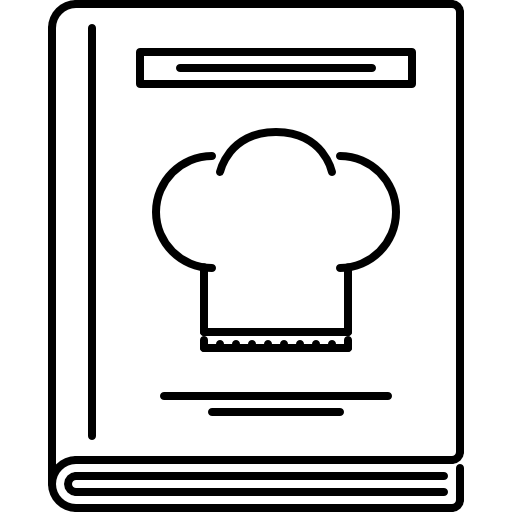
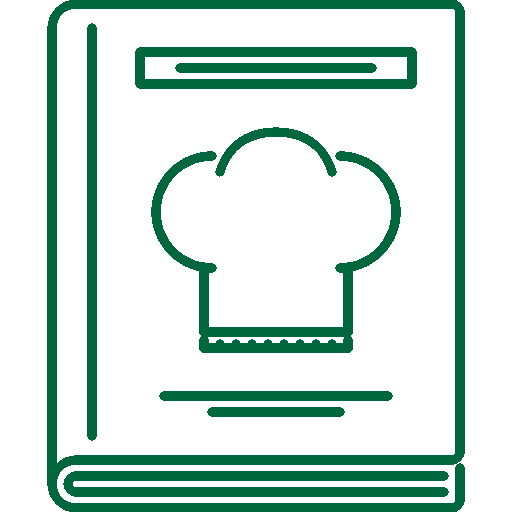
Header da TelaPrincipal

diff --git a/styles/styles.js b/styles/styles.js
@@ -17,7 +17,7 @@ export const MainScreen = styled.View`
 
 export const DivRecipeScreen = styled.View`
   
-  border: 1px solid red;
+  
 `;
 
 export const DivTopo = styled.View`
@@ -25,7 +25,6 @@ export const DivTopo = styled.View`
   width: 360px;
   height: 60px;
   margin-bottom: 2px;
-  border: 1px solid red;
   background: #FF9C33;
   border-radius: 1px;
 `
@@ -33,7 +32,6 @@ export const DivMenu = styled.View`
   width: 50px;
   height: 60px;
   position: absolute;
-  border: 2px solid red;
 `
 export const DivSearch = styled.View`
   
@@ -42,12 +40,11 @@ export const DivSearch = styled.View`
   left: 50px;
   margin-top: 5px;
   align-items: flex-end;
-  border: 1px solid green;
+
 `
 export const DivTitleScreen = styled.View`
   width: 360px;
   height: 40px;
-  border: 1px solid red;
   background: #FF9C33;
   border-radius: 1px;
 `
@@ -57,21 +54,51 @@ export const DivButtonRegister = styled.View`
   width: 180px;
   height: 100px;
   left: 180px;
-  top: 450px;
+  top: 250px;
 `
 export const DivButtonBack = styled.View`
   background-color: #FFF5EB;
   width: 180px;
   height: 100px;
   left: 180px;
-  top: 300px;
+  top: 100px;
 `
 
 export const DivButtonLogin = styled.View`
 
 width: 180px;
 height: 100px;
-top: 350px;
+top: 150px;
+`
+export const DivUserDrawer = styled.View`
+  width: 283px;
+  height: 100px;
+  /* background-color: rgba(255,255,255,0.5); */
+  border-bottom-width: 1px;
+  border-bottom-color: rgba(255,255,255,0.5);
+`
+
+export const DivUserData = styled.View`
+  width: 200px;
+  height: 60px;
+  left: 80px;
+  top: 15px;
+`
+
+export const DrawerUserNoImage = styled.Image`
+  width: 60px;
+  height: 60px;
+  bottom: 40px;
+  margin-left: 10px;
+
+`
+export const DrawerUserImage = styled.Image`
+  width: 60px;
+  height: 60px;
+  bottom: 40px;
+  margin-left: 10px;
+  border-radius: 30px;
+
 `
 
 export const Logo = styled.Image`
@@ -89,16 +116,22 @@ export const Lupa = styled.Image`
   position: absolute;
   right: 10px;
   top: 15px;
-  border: 2px solid red;
   z-index: 1px;
 `;
 
-export const LivroReceitas = styled.Image`
+export const IconTitle = styled.Image`
   position: absolute;
-  width: 25px;
-  height: 25px;
+  width: 30px;
+  height: 30px;
   left: 234px;
-  top: 10px;
+  top: 5px;
+`
+
+export const MenuImage = styled.Image`
+  height: 50px;
+  width: 30px;
+  top: 7px;
+  left: 8px;
 `
 
 export const InputText = styled.TextInput`
@@ -110,7 +143,7 @@ export const InputText = styled.TextInput`
   border-width: 1px;
   padding: 0 0 0 20px;
   margin-bottom: 10px;
-  top: 330px;
+  top: 130px;
   left: 20px;
 `
 export const InputSearch = styled.TextInput`
@@ -124,7 +157,6 @@ export const InputSearch = styled.TextInput`
   text-align: center;
   border-color: #EEE;
   border-radius: 50px;
-  border: 2px solid red;
 `
 export const TitleScreen = styled.Text`
   position: absolute;

diff --git a/App.js b/App.js
@@ -2,22 +2,75 @@ import * as React from 'react';
 import { View, Text } from 'react-native';
 import { NavigationContainer } from '@react-navigation/native';
 import { createNativeStackNavigator } from '@react-navigation/native-stack';
+import { createDrawerNavigator, DrawerContentScrollView, DrawerItemList } from '@react-navigation/drawer';
 import Login from './screens/Login'
 import Entrar from './screens/Entrar'
 import Registrar from './screens/Registrar'
 import TelaPrincipal from './screens/TelaPrincipal'
+import { 
+  InputSearchField,  
+  DivUserDrawer, DrawerUserNoImage, DrawerUserImage, DivUserData } from './styles/styles'
 
 const Stack = createNativeStackNavigator();
+const Drawer = createDrawerNavigator();
 
 export default function App() {
   return (
     <NavigationContainer>
-      <Stack.Navigator initialRouteName="Login" screenOptions={{headerShown: false}}>
+      <Stack.Navigator initialRouteName="TelaPrincipal" screenOptions={{ headerShown: false }}>
         <Stack.Screen name="Login" component={Login} />
         <Stack.Screen name="Entrar" component={Entrar} />
         <Stack.Screen name="Registrar" component={Registrar} />
-        <Stack.Screen name="TelaPrincipal" component={TelaPrincipal} />
+        <Stack.Screen name="TelaPrincipal" component={DrawerScreens} />
       </Stack.Navigator>
     </NavigationContainer>
   );
 }
+
+const CustomDrawer = (props) => {
+  return <DrawerContentScrollView {...props} style={{backgroundColor: '#FF9C33'}}>
+    <DivUserDrawer>
+      <DivUserData>
+        <Text style={{paddingTop: 10, fontSize: 18}}>Olá ~ nome usuario~</Text>
+        <Text style={{marginTop: 3}}>~email~</Text>
+      </DivUserData>
+      
+      <DrawerUserNoImage source={require('./assets/no-photo2.png')} />
+      {/* <DrawerUserImage source={require('./assets/no-photo2.png')} /> */}
+    </DivUserDrawer>
+    <DrawerItemList {...props}/>
+  </DrawerContentScrollView>
+}
+
+ function DrawerScreens() {
+   return(   
+  <Drawer.Navigator initialRouteName="Receitas" 
+    screenOptions={{
+      headerStyle:{
+        backgroundColor:'transparent',
+        borderColor: 'red',
+      },
+      headerTitle:'',
+      headerShown: false,
+    }} drawerContent={(props) => <CustomDrawer {...props}/>} >
+    <Drawer.Screen name="Receitas" component={TelaPrincipal} />
+  </Drawer.Navigator>
+   );
+}
+
+// screenOptions={{headerTintColor: "#00663D", headerStyle: {
+//   backgroundColor: "#FF9C33",
+//   borderRadius: 1,
+// }, header}}
+
+// function SearchField(){
+//   return(
+//     <InputSearchField>
+//       placeholder='Pesquisar receitas'
+//       style={{height:35}}
+//       type="text"
+//       onChangeText={(text) => true}
+//       value={true}
+//     </InputSearchField>
+//   );
+// }

diff --git a/screens/Entrar.js b/screens/Entrar.js
@@ -14,7 +14,7 @@ import {
 import {Screen, InputTextField, Logo} from '../styles/styles'
 import PressableEnterButton from '../components/Button';
 import { firebase } from '@react-native-firebase/auth';
-
+import Autenticacao from '../components/Autenticacao';
 
 
 export default function Entrar({navigation}){
@@ -69,7 +69,7 @@ export default function Entrar({navigation}){
                     <Text style={styles.backButtonText}>VOLTAR</Text>
                 </TouchableOpacity>
                 {errorLogin === true ? true : false}
-                {email === "" || senha === "" ? <TouchableOpacity style={styles.enterButton2} disabled={true} onPress={() => true}>
+                {email === "" || senha === "" ? <TouchableOpacity style={styles.enterButton2} disabled={true}>
                     <Text style={styles.enterButtonText}>LOGIN</Text>
                 </TouchableOpacity>
                 :
@@ -147,7 +147,7 @@ const styles = StyleSheet.create({
         height: 45,
         padding: 10,
         borderRadius: 10,
-        top: 380,
+        top: 180,
         alignItems:'center',
         backgroundColor: '#00663D'
     },
@@ -165,7 +165,7 @@ const styles = StyleSheet.create({
         height: 45,
         padding: 10,
         borderRadius: 10,
-        top: 345,
+        top: 145,
         alignItems:'center',
         backgroundColor: '#FF9C33'
     },
@@ -183,7 +183,7 @@ const styles = StyleSheet.create({
         height: 45,
         padding: 10,
         borderRadius: 10,
-        top: 300,
+        top: 100,
         alignItems:'center',
         backgroundColor: '#00663D'
     },

diff --git a/screens/TelaPrincipal.js b/screens/TelaPrincipal.js
@@ -4,6 +4,7 @@ import {
   ScrollView,
   Text,
   View,
+  TouchableOpacity,
 } from 'react-native';
 import {
   MainScreen, 
@@ -15,10 +16,11 @@ import {
   Lupa, 
   DivMenu,
   TitleScreenText,
-  LivroReceitas } from '../styles/styles'
-import {PressableLoginButton, PressableRegisterButton} from '../components/Button';
+  IconTitle,
+  MenuImage } from '../styles/styles'
+import {PressableMenuButton, PressableRegisterButton} from '../components/Button';
 
-export default function TelaPrincipal(){
+export default function TelaPrincipal({navigation}){
   return(
     <MainScreen>
       <DivTopo>
@@ -33,12 +35,14 @@ export default function TelaPrincipal(){
           ></InputSearchField>
         </DivSearch>
         <DivMenu>
-
+          <TouchableOpacity onPress={() => navigation.openDrawer()}>
+            <MenuImage source={require('../assets/drawer.png')}/>
+          </TouchableOpacity>
         </DivMenu>
       </DivTopo>
       <DivTitleScreen>
         <TitleScreenText texto="RECEITAS"/>
-        <LivroReceitas source={require('../assets/livro-receitas.png')} />
+        <IconTitle source={require('../assets/livro-receitas.png')} />
       </DivTitleScreen>
       <ScrollView>
         <DivRecipeScreen>

diff --git a/components/Button.js b/components/Button.js
@@ -1,5 +1,7 @@
 import React from 'react';
 import styled from 'styled-components/native';
+import Image from 'react-native'
+import { Menu } from '../styles/styles';
 
 const LoginButton = styled.TouchableOpacity`
 
@@ -73,12 +75,6 @@ const BackButtonText = styled.Text`
     font-size: 22px;
     color: black;
 `;
-
-export const PressableLoginButton = ({ onPress, bgColor, title }) => (
-  <LoginButton onPress={onPress} bgColor={bgColor}>
-    <LoginButtonText>{title}</LoginButtonText>
-  </LoginButton>
-);
 
 export const PressableRegisterButton = ({ onPress, bgColor, title }) => (
   <RegisterButton onPress={onPress} bgColor={bgColor}>

diff --git a/components/Autenticacao.js b/components/Autenticacao.js
@@ -3,6 +3,7 @@ import { View, Text } from 'react-native';
 import auth from '@react-native-firebase/auth';
 
 export default function Autenticacao() {
+  
   // Set an initializing state whilst Firebase connects
   const [initializing, setInitializing] = useState(true);
   const [user, setUser] = useState();

diff --git a/index.js b/index.js
@@ -11,4 +11,4 @@ import App from './App';
 import {name as appName} from './app.json';
 import { NavigationContainer } from '@react-navigation/native';
 
-AppRegistry.registerComponent(appName, () => TelaPrincipal);
+AppRegistry.registerComponent(appName, () => App);

diff --git a/screens/Registrar.js b/screens/Registrar.js
@@ -84,7 +84,7 @@ const styles = StyleSheet.create({
         height: 45,
         padding: 10,
         borderRadius: 10,
-        top: 345,
+        top: 145,
         alignItems:'center',
         backgroundColor: '#00663D'
     },
